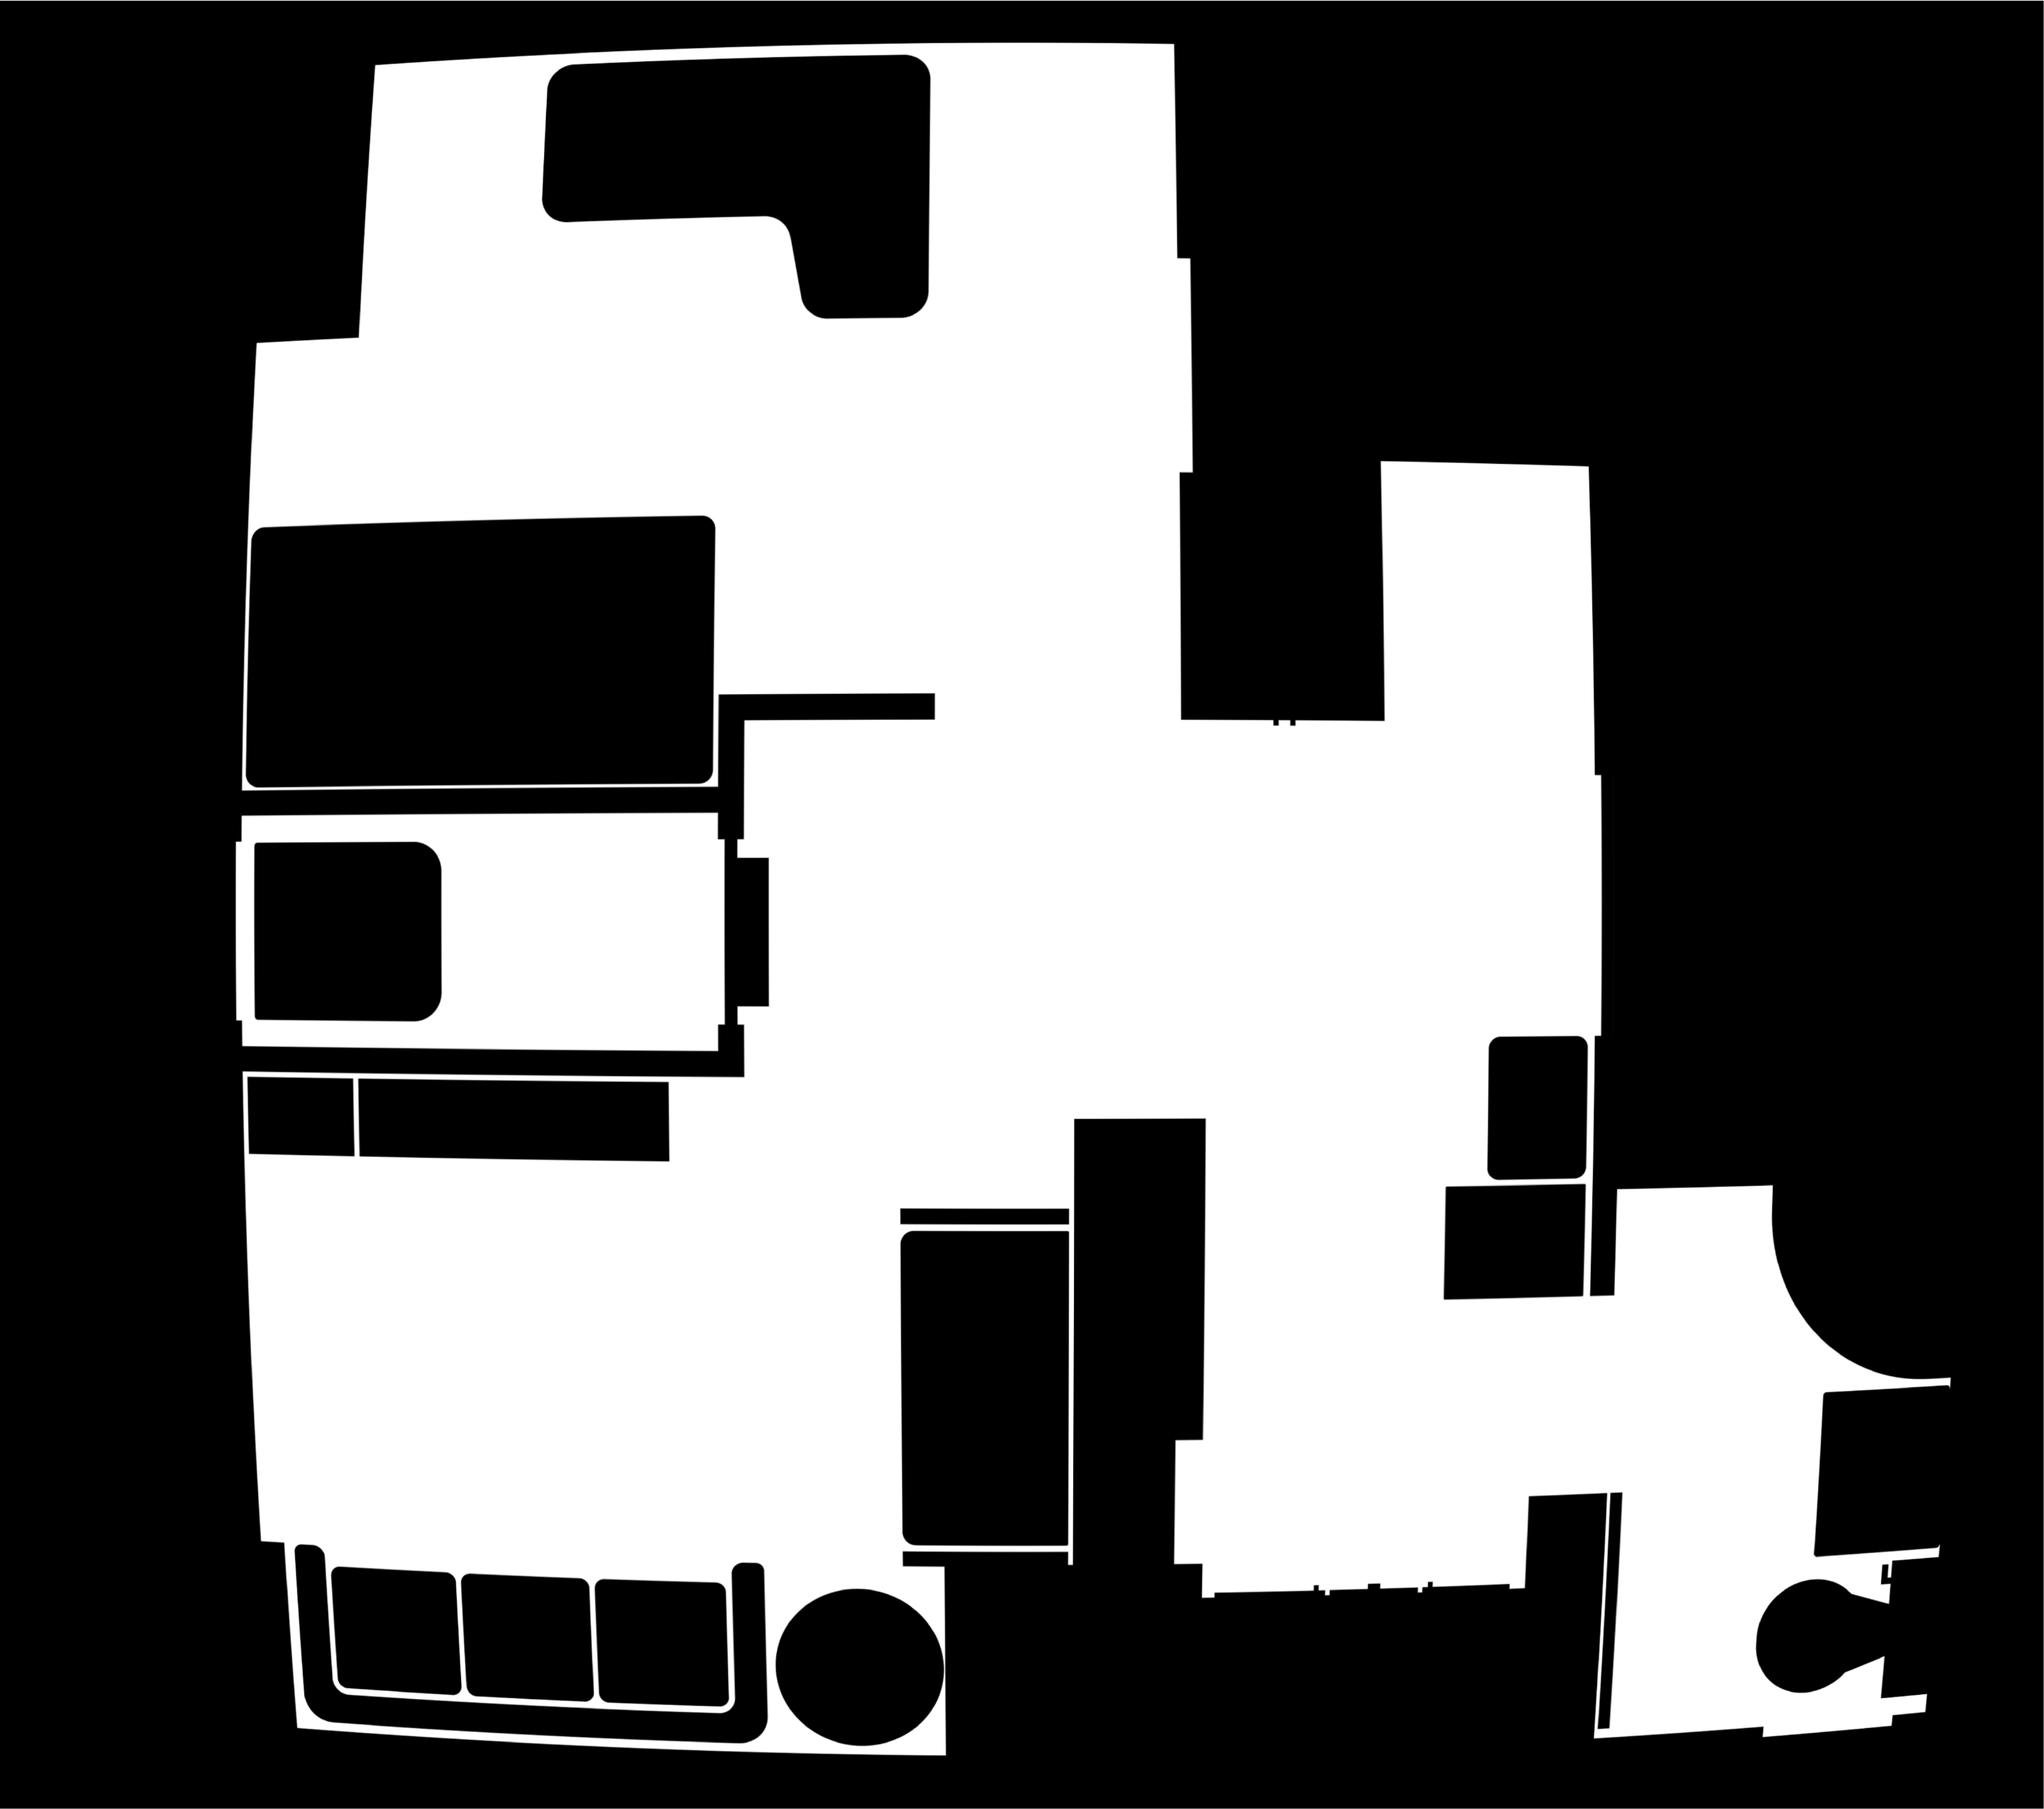
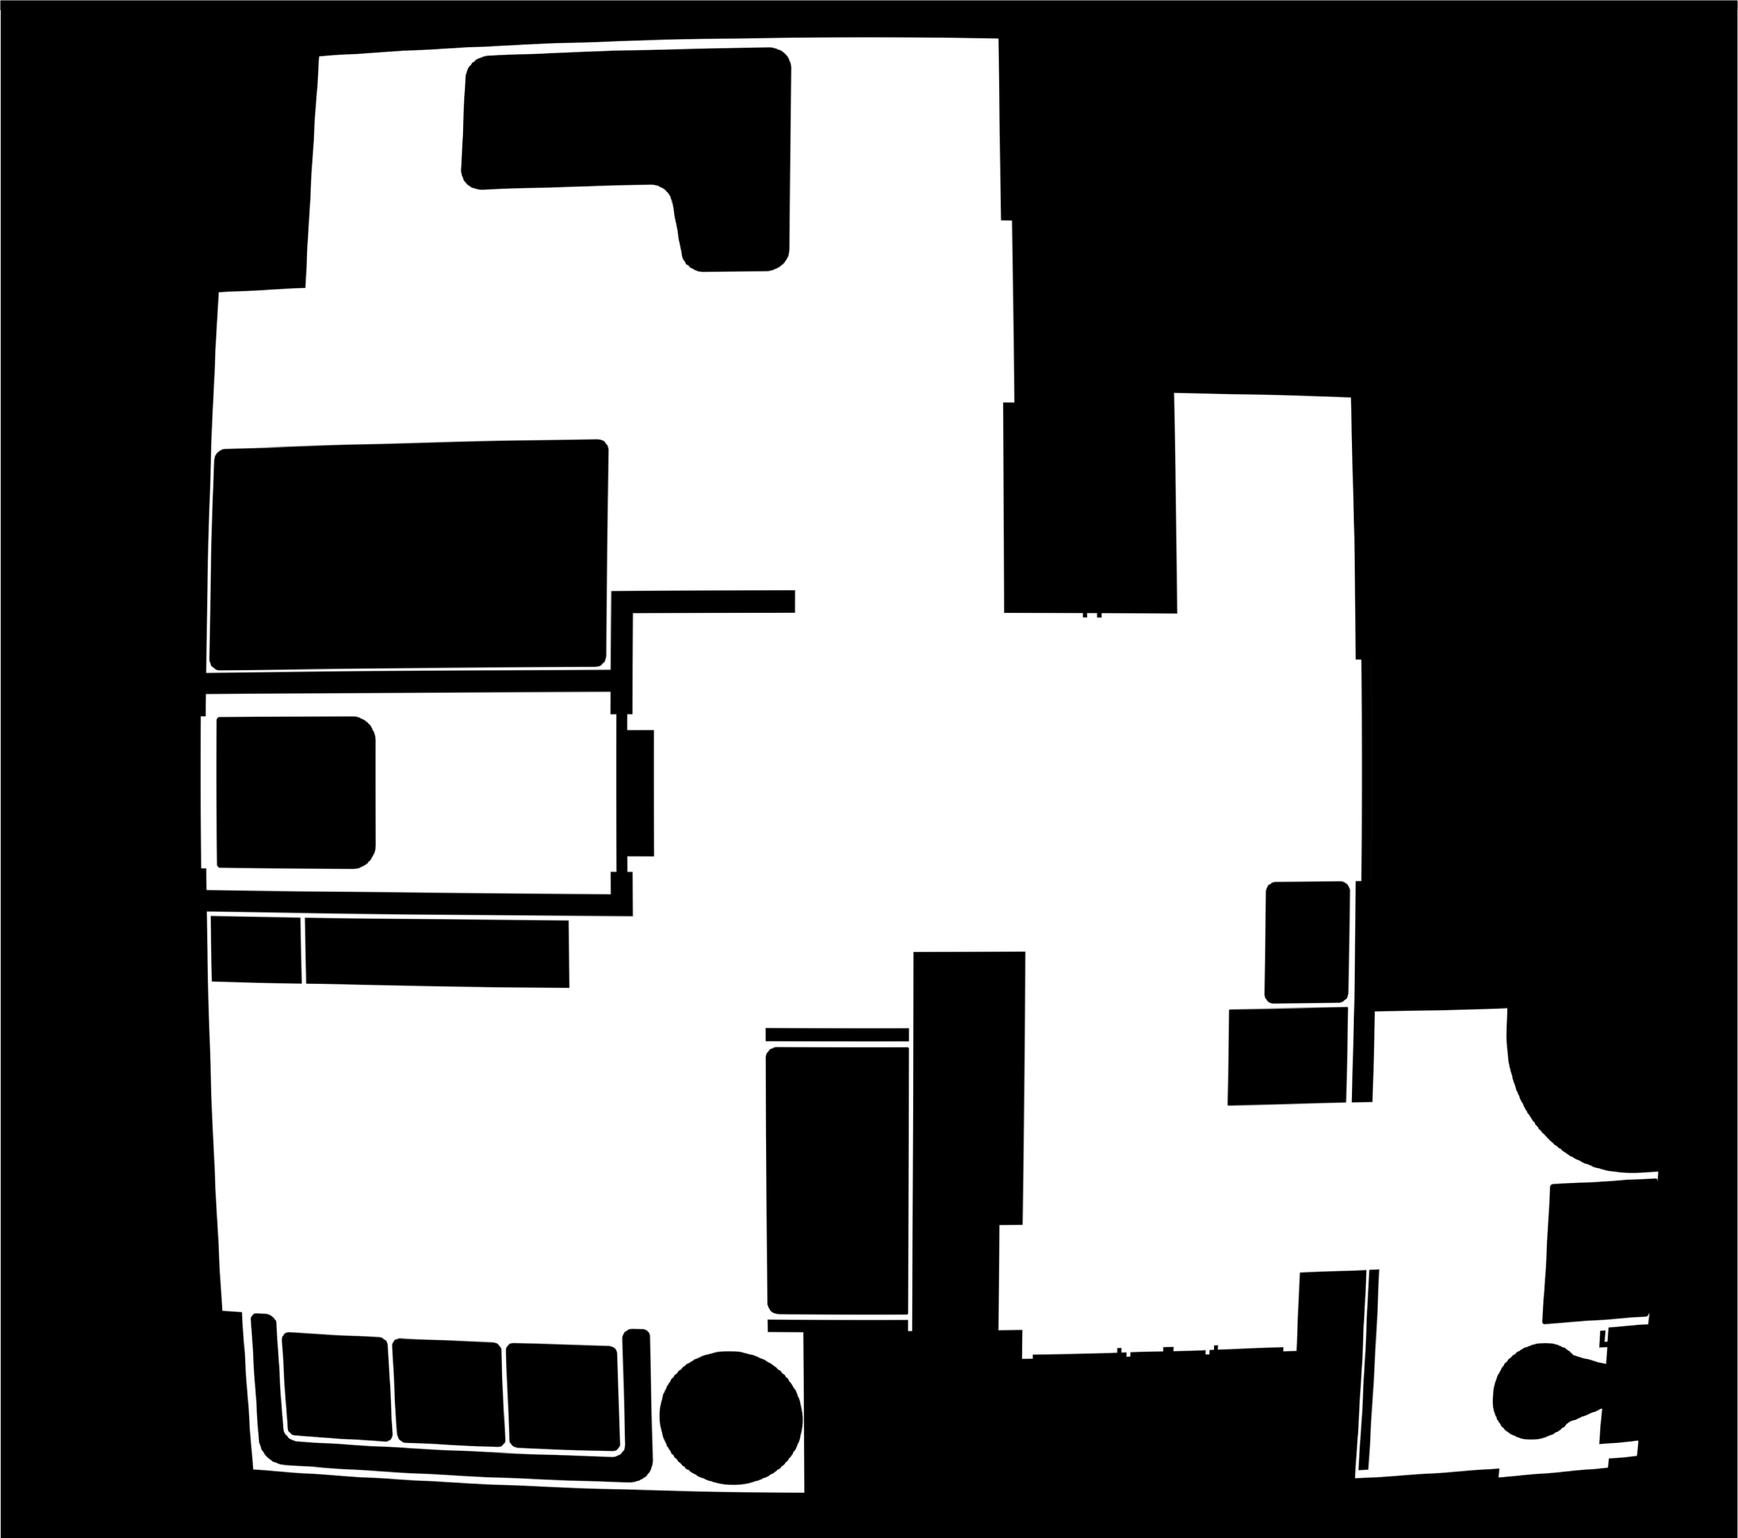
update img/house and constant.py size

diff --git a/src/constant.py b/src/constant.py
@@ -31,13 +31,13 @@ game_settings = {
 # layout
 layout_settings = {
     'confirm': {
-        'img': BoxStyle(x=516, y=100, width=407, height=530)
+        'img': BoxStyle(x=524, y=100, width=390, height=540)
     },
     'level': {
         # 'name': TextSytle(fontsize=24, x=165, y=54),
         'score_font': TextSytle(x=1205, y=72, fontsize=42, color=pg.Color(255, 255, 255)),
         'time_font': TextSytle(x=660, y=80, fontsize=48, color=pg.Color(117, 249, 76)),
-        'viewbox_location': LocationStyle(x=50, y=155),
+        'viewbox_location': LocationStyle(x=48, y=141),
         'hit_shake_range': 10,
     },
 }
@@ -45,73 +45,73 @@ layout_settings = {
 viewbox_settings = {
     'level1': {
         'is_static': True,
-        'viewbox_area': BoxStyle(x=864, y=803, width=1345, height=610)
+        'viewbox_area': BoxStyle(x=778, y=846, width=1345, height=628)
     },
 }
 
 connection_settings = {
     'max_num': 15,
     'max_num_per_collision': 5,
-    'line_width': 1,
+    'line_width': 3,
 }
 
 house_settings = {
-    'map_size': SizeStyle(width=3028, height=2680),
+    'map_size': SizeStyle(width=2575, height=2279),
     'img_size': SizeStyle(width=110, height=150),
-    'step': 5,
-    'blank_color': pg.Color(0, 0, 0, 0),
+    'step': 20,
+    'blank_color': pg.Color(255, 255, 255, 255),
     'level1': {
         'game_time': 20,  # 20 seconds
         'hit_delay': 1,  # 1 second
         'player_name_font': TextSytle(x=-17, y=-10, fontsize=12, color=pg.Color(255, 255, 255)),
-        'player_img_box': BoxStyle(x=800, y=1400, width=110, height=150),
+        'player_img_box': BoxStyle(x=1282, y=879, width=110, height=150),
         'people': [
             {
                 'frame_idx': 0,
                 'added': False,
-                'img_location': LocationStyle(x=850, y=1450),
+                'img_location': LocationStyle(x=1873, y=1067),
                 'img_size': None,
                 'img_path': os.path.abspath(os.path.join(THIS_FILE_DIR, '../imgs/level1/man01.png')),
             },
             {
-                'frame_idx': 0,
+                'frame_idx': game_settings['frame_rate'] * 1,
                 'added': False,
-                'img_location': None,
+                'img_location': LocationStyle(x=1873, y=1067),
                 'img_size': None,
                 'img_path': os.path.abspath(os.path.join(THIS_FILE_DIR, '../imgs/level1/man02.png')),
             },
             {
-                'frame_idx': 0,
+                'frame_idx': game_settings['frame_rate'] * 2,
                 'added': False,
-                'img_location': None,
+                'img_location': LocationStyle(x=1873, y=1067),
                 'img_size': None,
                 'img_path': os.path.abspath(os.path.join(THIS_FILE_DIR, '../imgs/level1/man03.png')),
             },
             {
-                'frame_idx': 0,
+                'frame_idx': game_settings['frame_rate'] * 3,
                 'added': False,
-                'img_location': None,
+                'img_location': LocationStyle(x=1873, y=1067),
                 'img_size': None,
                 'img_path': os.path.abspath(os.path.join(THIS_FILE_DIR, '../imgs/level1/man04.png')),
             },
             {
-                'frame_idx': 0,
+                'frame_idx': game_settings['frame_rate'] * 4,
                 'added': False,
-                'img_location': None,
+                'img_location': LocationStyle(x=1873, y=1067),
                 'img_size': None,
                 'img_path': os.path.abspath(os.path.join(THIS_FILE_DIR, '../imgs/level1/man05.png')),
             },
             {
-                'frame_idx': 0,
+                'frame_idx': game_settings['frame_rate'] * 5,
                 'added': False,
-                'img_location': None,
+                'img_location': LocationStyle(x=1873, y=1067),
                 'img_size': None,
                 'img_path': os.path.abspath(os.path.join(THIS_FILE_DIR, '../imgs/level1/man06.png')),
             },
             {
-                'frame_idx': 0,
+                'frame_idx': game_settings['frame_rate'] * 6,
                 'added': False,
-                'img_location': None,
+                'img_location': LocationStyle(x=1873, y=1067),
                 'img_size': None,
                 'img_path': os.path.abspath(os.path.join(THIS_FILE_DIR, '../imgs/level1/man07.png')),
             },
